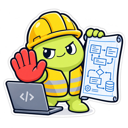
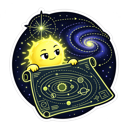
Mascot: cosmic genesis (universe built from a blueprint) replaces the blob

diff --git a/README.md b/README.md
@@ -1,9 +1,9 @@
 <p align="center">
-  <img src="branding/genesis-mascot-512.png" alt="genesis: a chartreuse blob in a hard hat holds up a STOP hand at a laptop while showing off an architecture blueprint" width="240" />
+  <img src="branding/genesis-mascot-512.png" alt="genesis: a newborn sun unrolls the blueprint of a solar system while the galaxy behind it is still being built from dashed construction lines" width="240" />
 </p>
 
 <p align="center">
-  <em>Put the keyboard down. Show me the diagram first.</em>
+  <em>Even the universe started with a diagram.</em>
 </p>
 
 <h1 align="center">genesis</h1>
